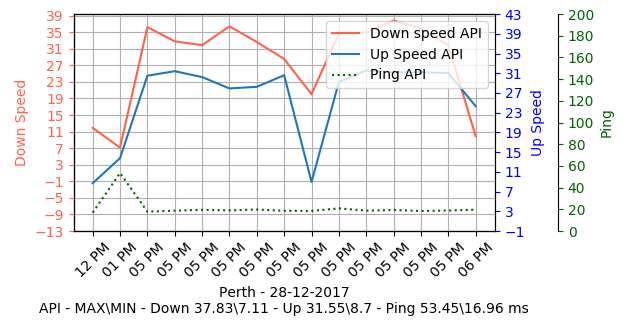
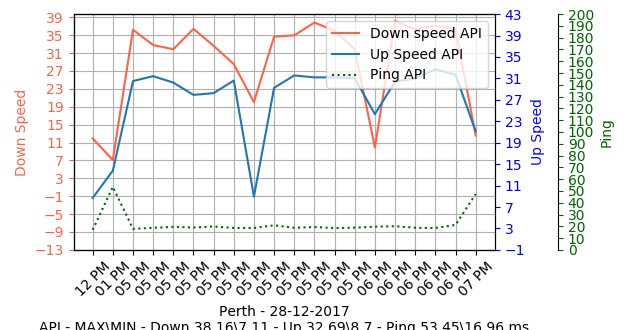
more changed to the plot images

Changed region(s): [[0.0, 0.0303, 0.8438, 1.0], [0.875, 0.0606, 0.9688, 0.7879], [0.6875, 0.1212, 0.7188, 0.1515]]

diff --git a/plot.py b/plot.py
@@ -42,7 +42,9 @@ def plot_data():
 		hour,pertemp,perthhumid = csv_reader_single()
 	
 		
-
+		hour.reverse()
+		pertemp.reverse()
+		perthhumid.reverse()
 
 	
 		### STARTING THE PLOT ###
@@ -53,7 +55,7 @@ def plot_data():
 		fig, ax1 = plt.subplots()	## set the plot type with the first plot as ax1 figsize=(20, 10)
 		plt.grid()							## set the grit behind the plot
 		#s1 = np.arange(1,len(time)+1)		## setting the lenght of x and the spacing/occorance but it has already been done..
-		ax1.plot(x, pertemp, c='#FF6347', label='Balcony Temp') ##palctemp		## setting the plot line, x for the bottom points, temp to take the y points on the plot, color
+		ax1.plot(x, pertemp, c='#FF6347', label='Perth Temperature') ##palctemp		## setting the plot line, x for the bottom points, temp to take the y points on the plot, color
 		#ax1.set_xlabel('Time of day')		## set the x spine lable
 		ax1.set_ylabel('Temperature', color='#FF6347')	# Make the y-axis label, ticks and tick labels match the line color.
 		ax1.tick_params('y', colors='#FF6347')	## set the ???? work it out later?
@@ -71,7 +73,11 @@ def plot_data():
 		nearesthumidity = int(math.ceil((min(perthhumid) / 10.0))) * 10
 		ax3.set_yticks(np.arange(nearesthumidity -5, max(perthhumid)+5, 5))
 		ax3.spines['right'].set_position(('axes', 1.07))					## MOVE SPINE TO THE RIGHT A LITTLE FURTHER.
-
+		
+		h1, l1 = ax1.get_legend_handles_labels()
+		h3, l3 = ax3.get_legend_handles_labels()
+		plt.legend(h1+h3, l1+l3, loc=1)
+		
 		fig.tight_layout()
 		fig.set_size_inches(6.4, 3.30)
 		plt.gcf().subplots_adjust(bottom=0.22)

diff --git a/speedapi.py b/speedapi.py
@@ -121,7 +121,11 @@ def main():
 	maxping = round(max(ping_time))
 	minping = round(max(ping_time))
 		# Same as above but only using the lists that are used if it a single test.
-			
+	
+	downspeed.reverse()
+	upspeed.reverse()
+	time_now.reverse()
+	
 	# Start of the plotting.	
 	x = np.arange(1,len(time_now)+1)								
 	# Set the x axis points.
